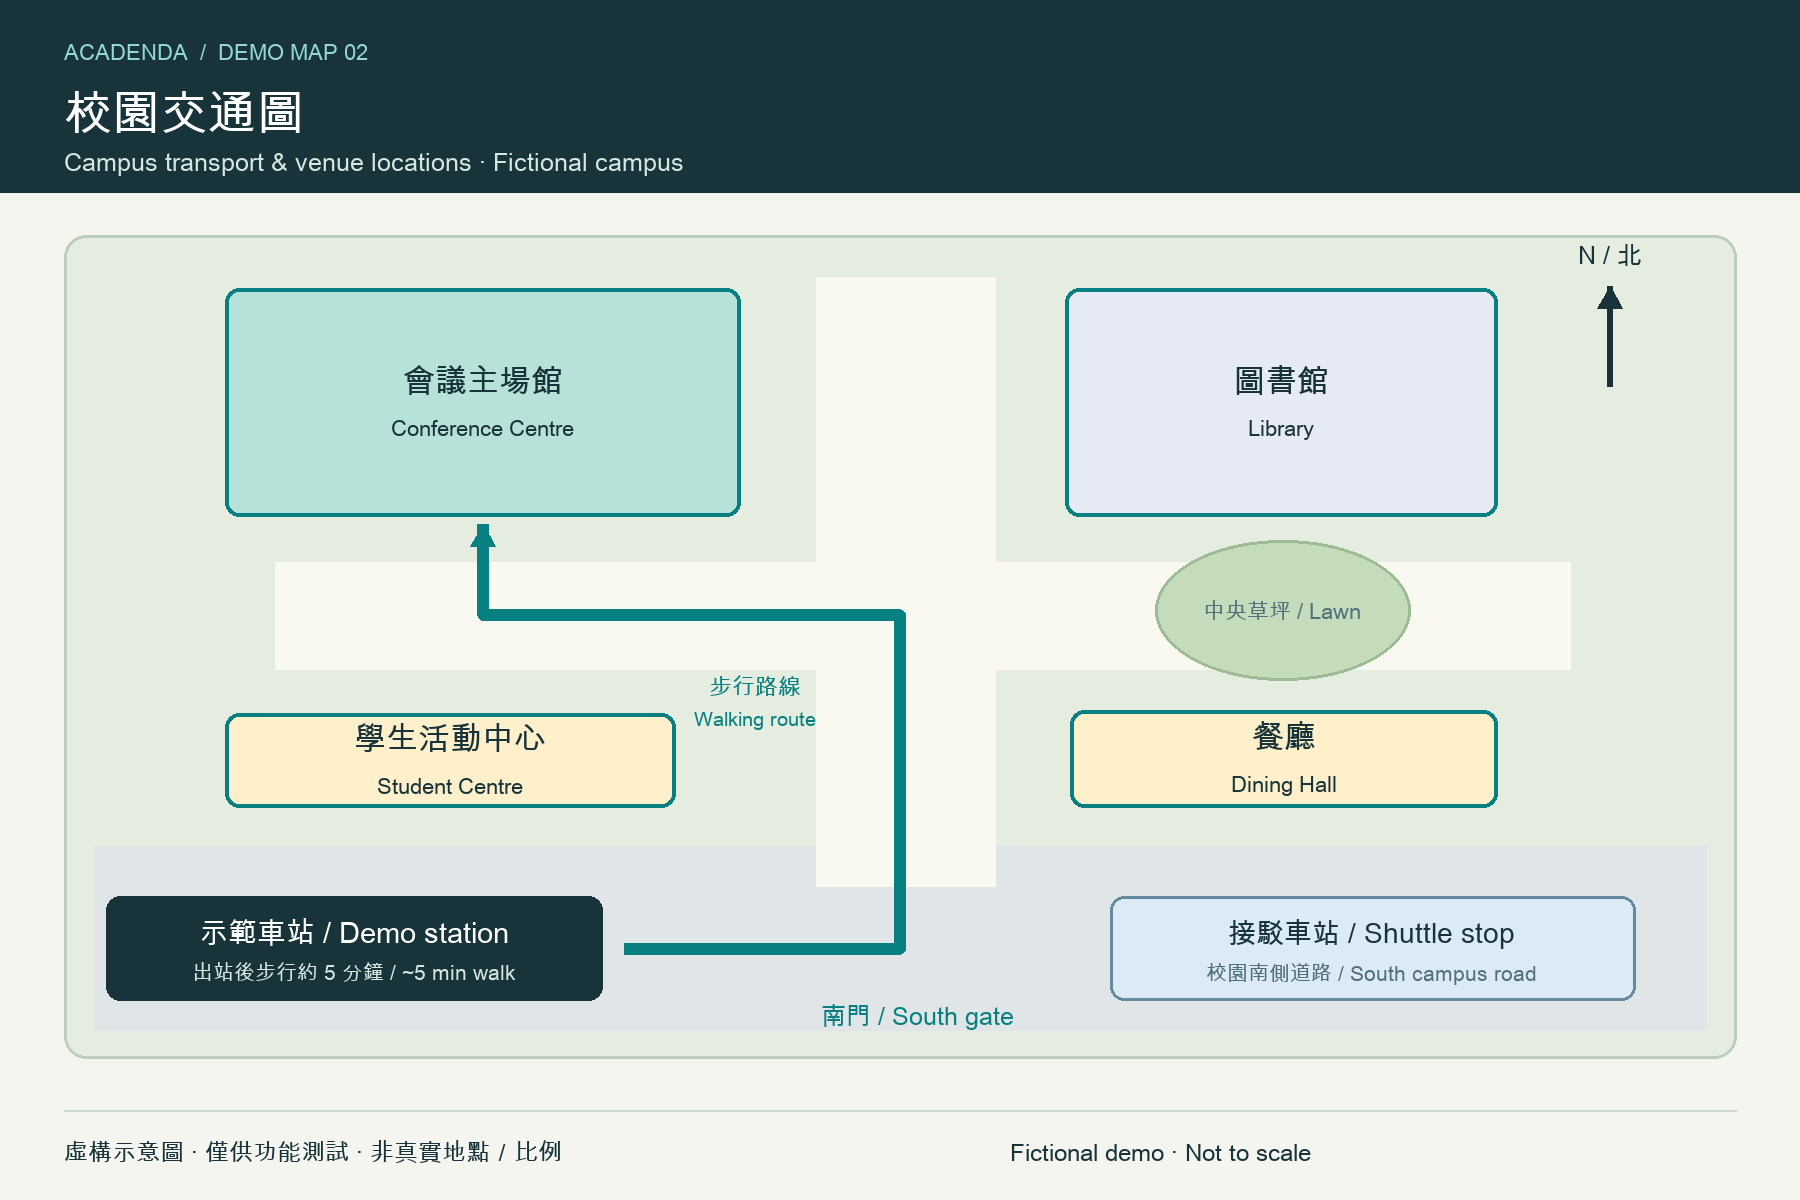
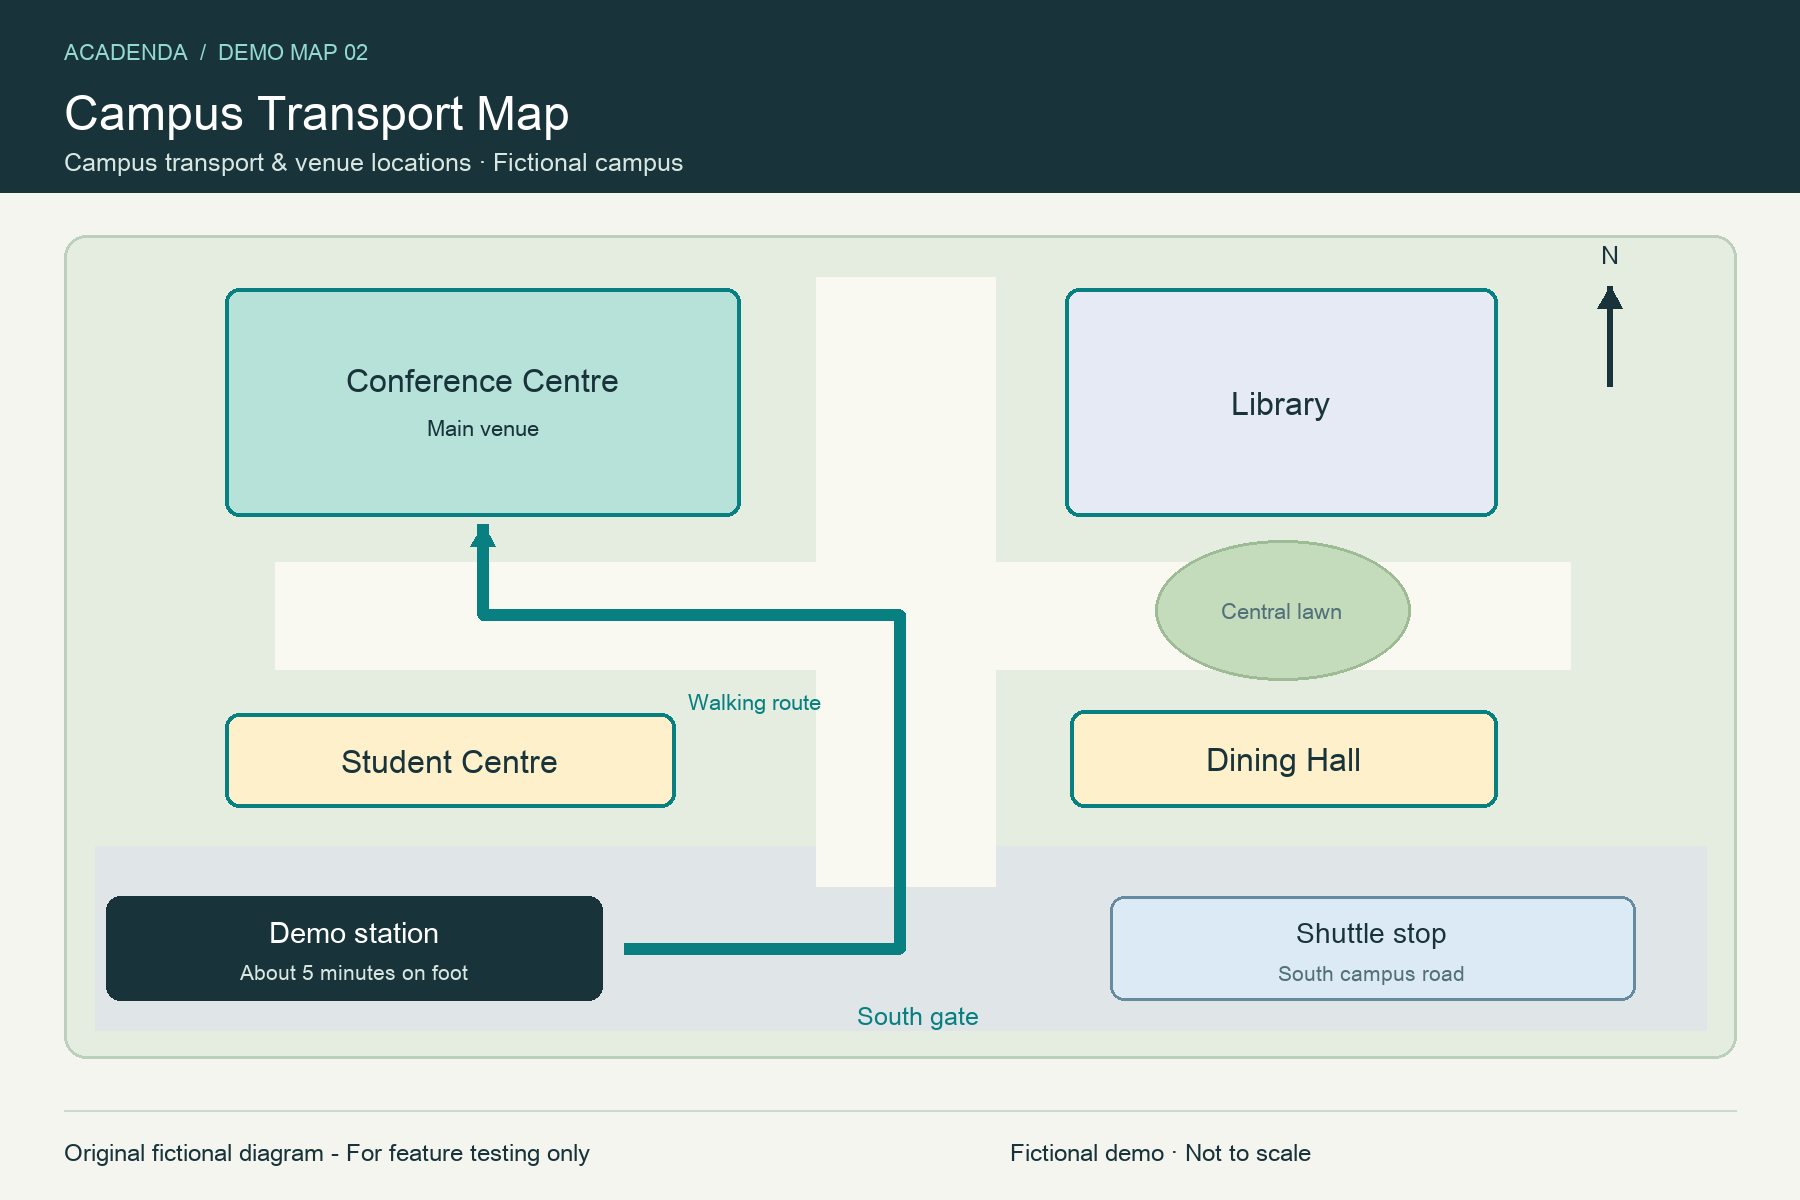
Use English-only labels in both conference demo maps

diff --git a/scripts/generate-acadenda-maps.py b/scripts/generate-acadenda-maps.py
@@ -11,21 +11,25 @@ INK, MUTED, TEAL, PAPER = '#18343a', '#527079', '#087f80', '#f4f5ef'
 def font(size): return ImageFont.truetype(FONT, size)
 def text(draw, xy, value, size=28, color=INK, anchor=None):
     draw.text(xy, value, font=font(size), fill=color, anchor=anchor)
-def centered(draw, box, zh, en, color=INK):
+def centered(draw, box, title, subtitle, color=INK):
     x=(box[0]+box[2])/2; y=(box[1]+box[3])/2
-    text(draw,(x,y-23),zh,32,color,'mm');text(draw,(x,y+25),en,22,color,'mm')
+    if subtitle:
+        text(draw,(x,y-23),title,32,color,'mm')
+        text(draw,(x,y+25),subtitle,22,color,'mm')
+    else:
+        text(draw,(x,y),title,32,color,'mm')
 def base(title, subtitle, number):
     im=Image.new('RGB',(1800,1200),PAPER);d=ImageDraw.Draw(im)
     d.rectangle((0,0,1800,192),fill=INK)
     text(d,(64,36),f'ACADENDA  /  DEMO MAP {number}',22,'#93d9cf')
     text(d,(64,78),title,48,'white');text(d,(64,144),subtitle,25,'#d8e6e2')
     d.line((64,1110,1736,1110),fill='#ccd8d3',width=2)
-    text(d,(64,1135),'虛構示意圖 · 僅供功能測試 · 非真實地點／比例',24)
+    text(d,(64,1135),'Original fictional diagram - For feature testing only',24)
     text(d,(1010,1135),'Fictional demo · Not to scale',24)
     return im,d
 
-def room(d,box,zh,en,fill='#d7eee8'):
-    d.rounded_rectangle(box,radius=14,fill=fill,outline=TEAL,width=4);centered(d,box,zh,en)
+def room(d,box,title,subtitle='',fill='#d7eee8'):
+    d.rounded_rectangle(box,radius=14,fill=fill,outline=TEAL,width=4);centered(d,box,title,subtitle)
 def arrow(d,points,color=TEAL,width=12):
     import math
     d.line(points,fill=color,width=width,joint='curve')
@@ -33,48 +37,47 @@ def arrow(d,points,color=TEAL,width=12):
     a=(x-26*math.cos(angle-.5),y-26*math.sin(angle-.5));b=(x-26*math.cos(angle+.5),y-26*math.sin(angle+.5))
     d.polygon([(x,y),a,b],fill=color)
 
-im,d=base('一樓會場配置圖','Level 1 · Demo conference venue', '01')
+im,d=base('Level 1 Venue Plan','Level 1 · Demo conference venue', '01')
 d.rounded_rectangle((64,235,1736,1015),radius=20,fill='white',outline='#adc6c2',width=5)
-room(d,(98,265,760,555),'主會場','Main Hall / Harbour Hall')
-room(d,(792,265,1260,555),'201 討論室','Room 201 / Seminar Room A')
-room(d,(1292,265,1702,555),'工作坊教室','Workshop Studio')
-d.rectangle((98,580,1702,716),fill='#edf3f0');text(d,(900,633),'中央走廊  /  Central corridor',30,MUTED,'mm')
-room(d,(98,745,535,975),'展覽／海報區','Exhibition Hall', '#e3edf8')
-room(d,(565,745,958,975),'報到大廳','Registration', '#fff0cc')
-room(d,(988,745,1305,975),'咖啡交流區','Coffee & networking', '#fff0cc')
-room(d,(1335,745,1511,975),'洗手間','WC', '#e8e7ed')
-room(d,(1541,745,1702,975),'電梯','Lift', '#e8e7ed')
+room(d,(98,265,760,555),'Main Hall','Harbour Hall')
+room(d,(792,265,1260,555),'Room 201','Seminar Room A')
+room(d,(1292,265,1702,555),'Workshop Studio','')
+d.rectangle((98,580,1702,716),fill='#edf3f0');text(d,(900,633),'Central corridor',30,MUTED,'mm')
+room(d,(98,745,535,975),'Exhibition Hall','Posters & displays', '#e3edf8')
+room(d,(565,745,958,975),'Registration','Welcome desk', '#fff0cc')
+room(d,(988,745,1305,975),'Coffee','Networking area', '#fff0cc')
+room(d,(1335,745,1511,975),'WC','', '#e8e7ed')
+room(d,(1541,745,1702,975),'Lift','', '#e8e7ed')
 # Main entry enters the registration lobby; corridor is continuous and unobstructed.
 d.rectangle((650,970,855,1025),fill='white');arrow(d,[(751,1070),(751,929)])
-text(d,(915,1052),'主入口  /  Main entrance',28,TEAL)
-text(d,(104,1052),'↑ 上方為會場內側  /  Interior',22,MUTED)
+text(d,(915,1052),'Main entrance',28,TEAL)
+text(d,(104,1052),'Interior above',22,MUTED)
 im.save(OUT/'demo-venue-level-1.png',optimize=True)
 
-im,d=base('校園交通圖','Campus transport & venue locations · Fictional campus', '02')
+im,d=base('Campus Transport Map','Campus transport & venue locations · Fictional campus', '02')
 d.rounded_rectangle((64,235,1736,1058),radius=22,fill='#e4ede0',outline='#bccfbd',width=3)
 # Broad campus pedestrian spine and southern access road.
 d.rectangle((95,846,1706,1030),fill='#e0e6e7')
 d.rectangle((816,277,995,886),fill='#f9f9f2')
 d.rectangle((275,562,1570,669),fill='#f9f9f2')
-room(d,(225,288,740,516),'會議主場館','Conference Centre', '#b7e2da')
-room(d,(1065,288,1497,516),'圖書館','Library', '#e5eaf4')
-room(d,(225,713,675,807),'學生活動中心','Student Centre', '#fff0cc')
-room(d,(1070,710,1497,807),'餐廳','Dining Hall', '#fff0cc')
+room(d,(225,288,740,516),'Conference Centre','Main venue', '#b7e2da')
+room(d,(1065,288,1497,516),'Library','', '#e5eaf4')
+room(d,(225,713,675,807),'Student Centre','', '#fff0cc')
+room(d,(1070,710,1497,807),'Dining Hall','', '#fff0cc')
 # Lawn marker on the pedestrian spine.
 d.ellipse((1155,540,1410,680),fill='#c4dcbc',outline='#9dbb95',width=3)
-text(d,(1282,610),'中央草坪 / Lawn',22,MUTED,'mm')
+text(d,(1282,610),'Central lawn',22,MUTED,'mm')
 d.rounded_rectangle((106,896,602,1000),radius=14,fill=INK)
-text(d,(354,931),'示範車站 / Demo station',29,'white','mm')
-text(d,(354,971),'出站後步行約 5 分鐘 / ~5 min walk',21,'#d8e6e2','mm')
+text(d,(354,931),'Demo station',29,'white','mm')
+text(d,(354,971),'About 5 minutes on foot',21,'#d8e6e2','mm')
 d.rounded_rectangle((1110,896,1635,1000),radius=14,fill='#dceaf5',outline='#668ba1',width=3)
-text(d,(1372,932),'接駁車站 / Shuttle stop',28,INK,'mm')
-text(d,(1372,972),'校園南側道路 / South campus road',21,MUTED,'mm')
+text(d,(1372,932),'Shuttle stop',28,INK,'mm')
+text(d,(1372,972),'South campus road',21,MUTED,'mm')
 arrow(d,[(624,948),(900,948),(900,615),(483,615),(483,524)],TEAL,12)
-text(d,(918,1015),'南門 / South gate',25,TEAL,'mm')
-text(d,(755,686),'步行路線',23,TEAL,'mm')
-text(d,(755,718),'Walking route',20,TEAL,'mm')
+text(d,(918,1015),'South gate',25,TEAL,'mm')
+text(d,(755,701),'Walking route',22,TEAL,'mm')
 # North arrow in the unused east margin.
-arrow(d,[(1610,386),(1610,286)],INK,6);text(d,(1610,254),'N / 北',25,INK,'mm')
+arrow(d,[(1610,386),(1610,286)],INK,6);text(d,(1610,254),'N',25,INK,'mm')
 im.save(OUT/'demo-campus-transport.png',optimize=True)
 for path in OUT.glob('*.png'):
     with Image.open(path) as image:
